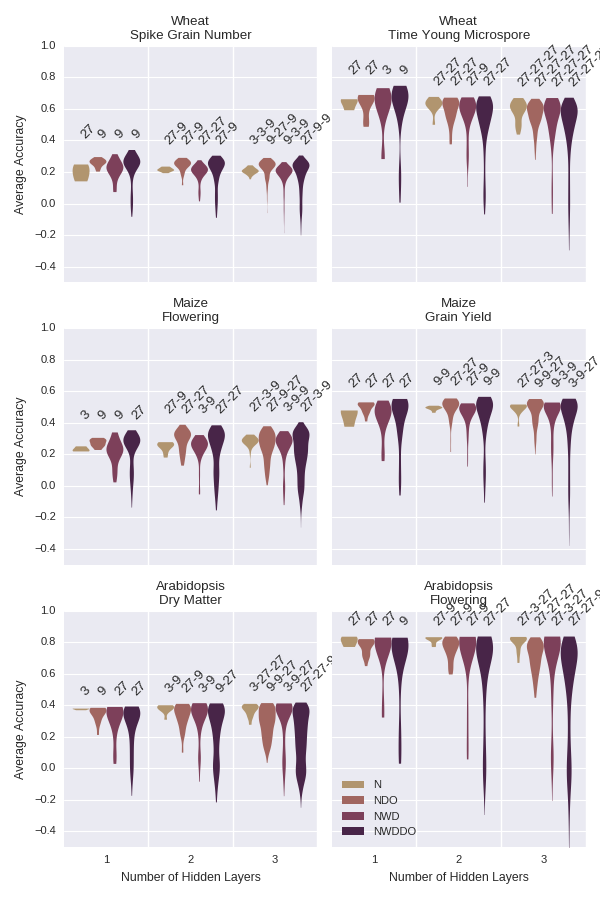
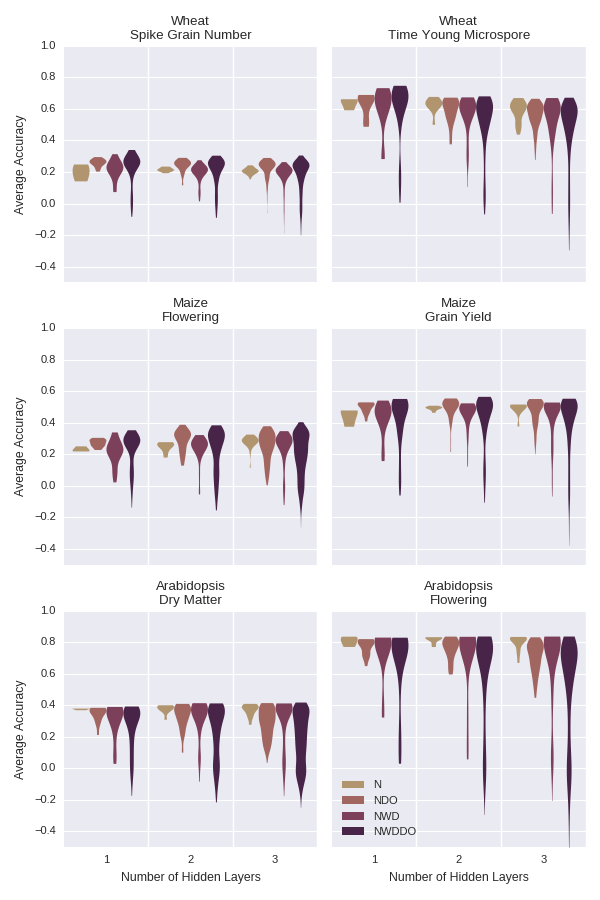
Adding timing comparison figure and caption.

diff --git a/g3_article/figures/depth_comparison.tex b/g3_article/figures/depth_comparison.tex
@@ -6,24 +6,16 @@
     \caption{Distribution of predictive accuracy by benchmark dataset, network depth, 
              and model. The violin plot width indicates the Kernel Density Estimate 
              (KDE) of all observed accuraies of all models at a given network depth. 
-             The sample size of the KDE depends on the number of model hyper 
-             parameters evaluated. For model N, there are no hyper 
-             parameters beyond the seven network archetectures selected for each depth. 
-             For models NWD and NDO, there are an additional four weight decay and dropout 
-             parameters evaluated, respectively. For model NWDDO, there are 16 (all combinations 
-             of four weight decay and four dropout parameters). In summary, the KDE 
-             plots are constructed from either 7, 28, or 112 samples. 
-             The models contributing to each KDE vary across one or more 
-             of their weight decay, dropout, and hidden layer parameters and can be 
+             The sample size of the KDE is 7, 28, 28, and 112 samples for the 
+             N, NWD, NDO, and NWDDO models, respectively. The models contributing 
+             to each KDE vary across one or more of five weight decay, five dropout, 
+             and seven hidden layer archetecture parameters and can be 
              understood as the distribution of results across the set of 
              hyper-parameters to all network models with the same depth and regularization
              type. The KDE bandwidth parameters are set using Scott's normal reference rule. 
              Negative accuraies are the result of trained models producing predictions that 
              are negatively correlated with actual measurements. The KDE plots are 
-             trucated to the minimum and maximum observed prediction accuracies. The 
-             highest mean performing model's shape is listed above each KDE plot as a 
-             example of a highly effective network archetecture for that particular dataset, 
-             network type, and hidden layer size.} 
+             trucated to the minimum and maximum observed prediction accuracies.} 
 \label{fig:depth-comparison}
 \end{figure}
 

diff --git a/g3_article/figures/time_comparison.tex b/g3_article/figures/time_comparison.tex
@@ -1,0 +1,14 @@
+
+\begin{figure}[htbp]
+\renewcommand{\familydefault}{\sfdefault}\normalfont
+\centering 
+\includegraphics[width=\linewidth]{g3_article/figures/time_comparison.png}
+    \caption{Time to train identical networks on identical datsets using a dedicated CPU core
+             compared to a dedicated GPU card. For all datasets, a single hidden layer, unregularized 
+             neural network was trained for 10K epochs. Optimizations that could cause a network
+             to terminate training early were disabled so differences in network initialization
+             would not affect timing. Each CPU and GPU training example were compared using 
+             an independent samples T-test with $n=30$. Columns annotated with the same letter 
+             are not significantly different at the $\alpha=0.05$ level.}
+\label{fig:time-comparison}
+\end{figure}

diff --git a/g3_article/sections/results.tex b/g3_article/sections/results.tex
@@ -16,6 +16,10 @@ Heed Strunk and White's dictum: "Omit needless words!"
 \input{g3_article/figures/depth_comparison} % Label = fig:depth-comparison
 \fi
 
+\ifdefined\showtablesandfigures
+\input{g3_article/figures/time_comparison} % Label = fig:time-comparison
+\fi
+
 %\section*{Additional guidelines}
 %
 %    \subsection*{Numbers} In the text, write out numbers nine or less except as part of a date, a fraction or decimal, 
